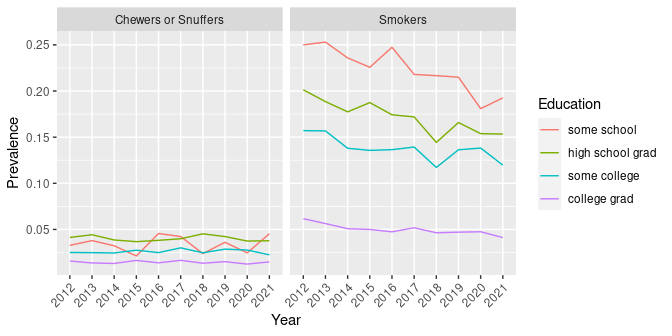
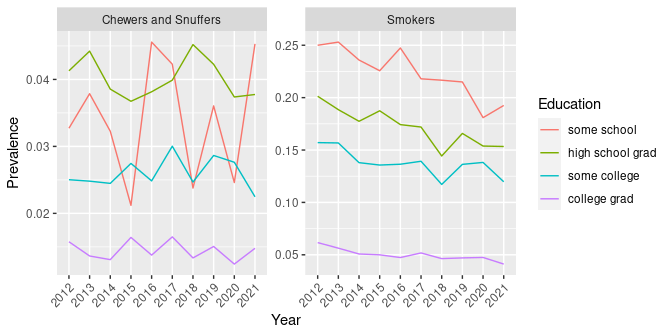
Freed scales, cleaned up some code.

diff --git a/sql_examples.md b/sql_examples.md
@@ -43,7 +43,7 @@ Load the required R packages, installing as needed.
 
 ```r
 if(!requireNamespace("pacman", quietly = TRUE)) install.packages("pacman")
-pacman::p_load(knitr, dplyr, ggplot2, tidyr, stringr, forcats, duckdb, readr)
+pacman::p_load(knitr, dplyr, ggplot2, tidyr, stringr, ggh4x, duckdb, readr)
 ```
 
 Set `knitr` rendering options, the number of digits to display, and a palette.
@@ -322,7 +322,7 @@ ORDER BY IYEAR, _EDUCAG DESC;"
 rs <- dbGetQuery(con, sql)
 tobacco_use <- rs %>% group_by(Year, Education) %>% 
   mutate(Smokers = Smokers/Respondents, 
-         `Chewers or Snuffers` = Chewers/Respondents) %>%
+         `Chewers and Snuffers` = Chewers/Respondents) %>%
   mutate(Education = factor(Education, levels = 1:4, labels = edu.labels),
          Year = factor(Year)) %>% 
   select(-Respondents, -Chewers) %>%
@@ -334,8 +334,8 @@ tobacco_use <- rs %>% group_by(Year, Education) %>%
 
 ```r
 ggplot(tobacco_use, aes(x = Year, y = Prevalence, 
-                        color = Education, group = Education)) +
-  geom_line() + facet_grid(. ~ Type) + 
+                        color = Education, group = Education)) + geom_line() + 
+  ggh4x::facet_grid2(. ~ Type, scales = "free_y", independent = "y") + 
   theme(axis.text.x = element_text(angle = 45, vjust = 1, hjust = 1))
 ```
 
@@ -467,7 +467,7 @@ drinkers <- rs %>% group_by(Year, Education) %>%
          `Binge Drinkers` = 
            BingeDrinkers/sum(BingeDrinkers, NonBingeDrinkers, na.rm = TRUE),
          Education = factor(Education, levels = 1:4, labels = edu.labels)) %>% 
-  select(-Respondents, -NonDrinkers, -BingeDrinkers, -NonBingeDrinkers) %>%
+  select(Year, Education, Drinkers, `Binge Drinkers`) %>%
   pivot_longer(c(-Year, -Education), names_to = "Type", values_to = "Prevalence")
 ```
 
@@ -476,8 +476,8 @@ drinkers <- rs %>% group_by(Year, Education) %>%
 
 ```r
 ggplot(drinkers, aes(x = Year, y = Prevalence, 
-                     color = Education, group = Education)) +
-  geom_line() + facet_grid(. ~ Type) + 
+                     color = Education, group = Education)) + geom_line() + 
+  ggh4x::facet_grid2(. ~ Type, scales = "free_y", independent = "y") +  
   theme(axis.text.x = element_text(angle = 45, vjust = 1, hjust = 1))
 ```
 
@@ -582,10 +582,15 @@ code instead if SQL to get your data from the database.
 ```r
 brfss_data <- tbl(con, "brfss")
 result <- brfss_data %>% 
-  rename("Year" = IYEAR, "Education" = `_EDUCAG`, State = `_STATE`) %>% 
-  select(Year, Education, State, SMOKDAY2, DRNKANY5) %>%
+  select("Year" = IYEAR, "Education" = `_EDUCAG`, State = `_STATE`, 
+         SMOKDAY2, DRNKANY5) %>%
   filter(Year >= 2012, Year <= 2021, State == 53, Education <= 4)
 ```
+
+Don't do too much cleanup here, though. Just focus on selecting and filtering
+the data to minimize how much to read from the database. Cleanup comes later. 
+The reason is that complex `dbplyr` queries can be slow and are more prone to 
+error.
 
 ## View the SQL Query
 
@@ -713,8 +718,8 @@ We can test our subset by reproducing our SQL query with R commands as before.
 
 ```r
 consumers <- brfsswa1221 %>%
-  rename("Year" = IYEAR, "Education" = `_EDUCAG`, State = `_STATE`) %>% 
-  select(Year, Education, State, SMOKDAY2, DRNKANY5) %>%
+  select("Year" = IYEAR, "Education" = `_EDUCAG`, State = `_STATE`, 
+         SMOKDAY2, DRNKANY5) %>%
   filter(Year >= 2012, Year <= 2021, State == 53, Education <= 4) %>% 
   mutate(Smoker = ifelse(SMOKDAY2 %in% 1:2, 1, 0)) %>% 
   mutate(NonSmoker = ifelse(SMOKDAY2 == 3, 1, 0)) %>% 
@@ -806,8 +811,8 @@ inner_join(fips, collect(result), by = c('state_fips' = 'State'))
 brfss_data <- tbl(con, "brfss")
 
 result <- brfss_data %>% 
-  rename("Year" = IYEAR, "Education" = `_EDUCAG`, State = `_STATE`) %>% 
-  select(Year, Education, State, SMOKDAY2, DRNKANY5) %>%
+  select("Year" = IYEAR, "Education" = `_EDUCAG`, State = `_STATE`, 
+         SMOKDAY2, DRNKANY5) %>%
   filter(Year >= 2012, Year <= 2021, Education <= 4, State %in% pnw_state_fips)
 
 consumers <- collect(result) %>% 
@@ -848,10 +853,10 @@ Age group (`_AGE_G`) is a 6-level ordinal variable. Apply labels with `factor()`
 ```r
 age.labels <- c('18-24', '25-34', '35-44', '45-54', '55-64', '65+')
 consumers <- tbl(con, "brfss") %>% 
-  rename("Year" = IYEAR, "Age Group" = `_AGE_G`, State = `_STATE`) %>% 
-  select(Year, `Age Group`, State, SMOKDAY2, DRNKANY5) %>%
+  select("Year" = IYEAR, "Age Group" = `_AGE_G`, State = `_STATE`, 
+         SMOKDAY2, DRNKANY5) %>%
   filter(Year >= 2012, Year <= 2021, State %in% pnw_state_fips) %>% 
-  collect(result) %>% 
+  collect() %>% 
   mutate(Smoker = ifelse(SMOKDAY2 %in% 1:2, 1, 0)) %>% 
   mutate(NonSmoker = ifelse(SMOKDAY2 == 3, 1, 0)) %>% 
   mutate(Drinker = ifelse(DRNKANY5 == 1, 1, 0)) %>% 
@@ -874,8 +879,8 @@ Plot drinking and smoking prevalence by age group and state for 2012-2021.
 
 
 ```r
-ggplot(consumers, aes(x = `Age Group`, y = Prevalence, 
-                      group = State, color = State)) + 
+ggplot(consumers, 
+       aes(x = `Age Group`, y = Prevalence, group = State, color = State)) + 
   geom_line() + facet_grid(. ~ Factor)
 ```
 
